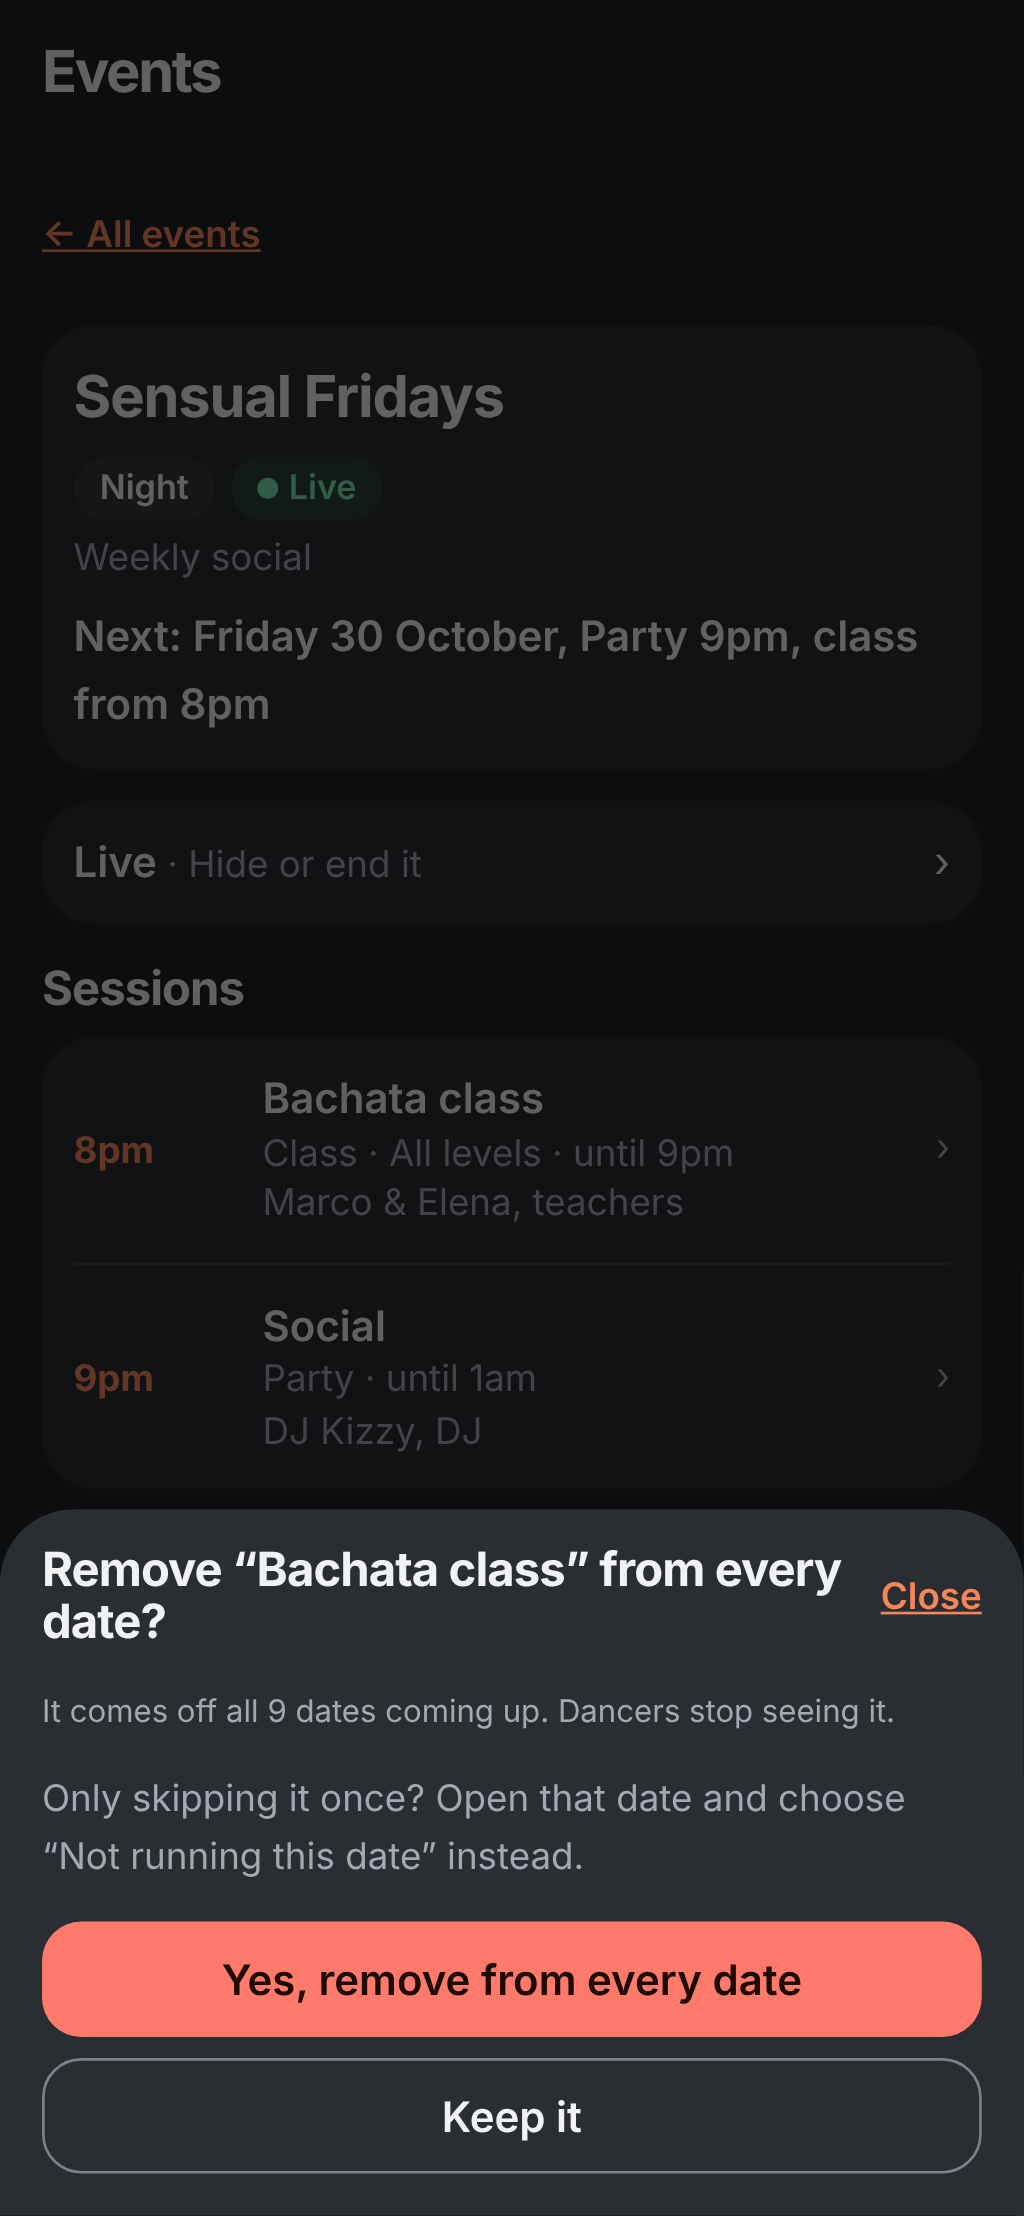
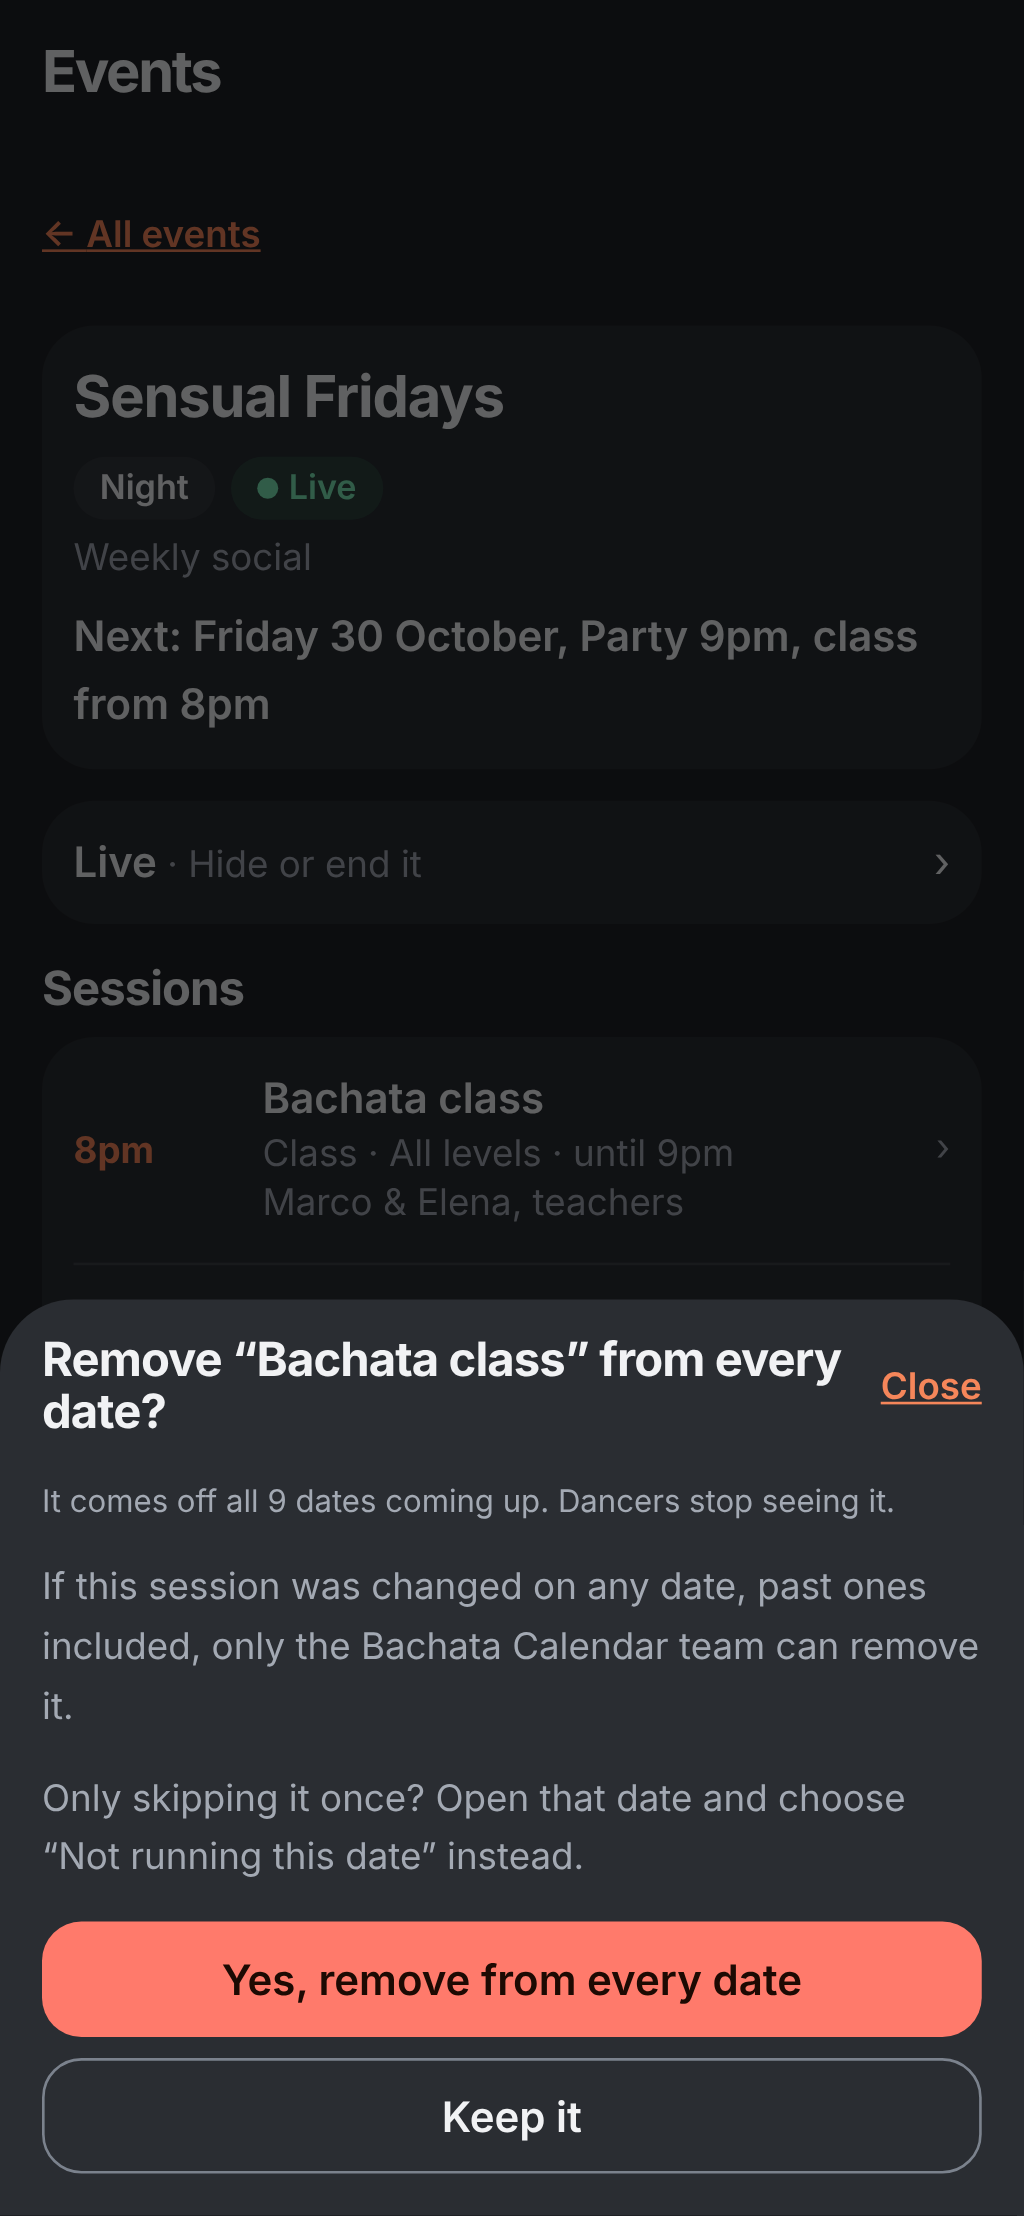
docs(p3): W2d review r1 -- design record table, handover, walk shots 04 and 21-24 [worker-done dt_6b0ecfb1d151]
Review round 1 table in docs/design/1068.md (findings 1-8 fixed, idempotency
handler read on prod), handover updated, the walk refreshed at 390x844 light
and dark: 04-removeall rewritten, 21-24 new (taken-off search row, performance
line-up note, new session needs a name, scope switch clears).

Claude-Session: https://claude.ai/code/session_01WoGkiAhXLeVJpxrwrt4MXg

Changed region(s): [[0.0, 0.5605, 1.0, 0.7784]]

diff --git a/docs/design/1068.md b/docs/design/1068.md
@@ -40,7 +40,26 @@ Flag: `organiserP3` (OFF). Branch `claude/p3-w2d-sessions-lineup`. Brief: `brief
 | workflow-lint / ci-budget | masking, previews, budget self-test | pass |
 | db-contract-check | not run (needs live DB secrets; this PR has no SQL) | n/a |
 
+## Review round 1 (`docs/reviews/1068-r1.md`, fixed on this branch)
+
+Every fix has a test that was run red against the unfixed code first (`sessions.send.test.tsx`, `sessions.data.test.ts`), then green.
+
+| # | Finding | Fixed? | How / why |
+|---|---|---|---|
+| 1 | Typing in "Just this date" lost on a background refetch | Fixed | The edit state is keyed on the STORED version (the date programme's `version`, or `ws.series.version`) and the draft id, not `dataUpdatedAt`. A refetch of the same version keeps the typing; a new version (another save) starts again from what is stored. |
+| 2 | A NEW nameless session saved on Every date, refused on Just this date | Fixed | A NEW session needs a name in both scopes: "Give this session a name." under a disabled "Add this session" (the empty form included). `problemsOf` no longer drops the title problem; a STORED untitled item still passes because `validateTree` checks a name only when it changes (#25). Matrix: new/stored x titled/untitled x scope (10 cases). |
+| 3 | Idempotency key outlives its version | Fixed | Read on prod (SELECT only, 2026-10-27): `apply_aggregate_write_p5` looks a key up in `command_idempotency_p5` by (actor, key) ALONE and replays the stored answer whatever the envelope; it stores a row only on success (a refusal raises and rolls back). So a reused key after a refusal is harmless today, but a key reused at a new version could replay an OLD success (for example, the same tree saved again after a dropped-but-landed write and a change in between). The key is now per (version, command), and dropped after any non-network failure. A pure retry (same envelope after a dropped connection) keeps it (existing test). Tests: a refusal then a tap gives a fresh key; a reload at a new version gives a fresh key and the new `expected_version`. |
+| 4 | Re-adding a taken-off stored person from the search | Fixed | The result row is disabled: "Taken off above. Tap "Keep them on" to put them back." (the button's real label; "Put back" is not on screen). |
+| 5 | Performance line-up: Teacher/DJ toggle with no explanation | Fixed | One line from `whyCannotAddPerson` (its one copy): "Performers and the MC are added by the Bachata Calendar team." |
+| 6 | Remove-from-every-date confirm does not warn up front; "all 0 dates" | Fixed | `CHANGED_SESSION_REMOVE_CONFIRM` shows in the confirm; `removeAllBody(0)` reads "It comes off the programme." |
+| 7 | Switching scope silently drops typing | Fixed (the simpler way) | Switching still starts again from that scope's stored session; once something is typed, a line under the picker says so: "Changing which dates clears what you typed here." |
+| 8 | Series caps refused with "Reload the page" | Fixed | Three anchored COMMAND_COPY rows before the loose set_program rule, texts read on prod (`_owner_program_problem_p5`): 60 sessions, 20 people a session, 300 line-up places, each saying what to take off. Refusal-copy phone spec green (4/4). |
+
+Checks for this round: changed vitest files 120/120 and the organiser suites 1805/1805; full `test:unit:offline` 611/612 files (the same 5 sandbox-only failures in `tests/integrityCouldNotRun.test.ts` as before; nothing here touches tests/scripts/bin); `tsc --noEmit` clean; `npm run lint` 21/22 with `check:integrity` failing only on exit 126 (the script is mode 100644 in git, also on main) and passing when run with `bash` (2662 files, 0 issues); eslint on the changed files clean; `organiser-refusal-copy.phone.spec.ts` 4/4; the W2d walk at 390x844 light + dark 10/10 (0 contrast violations, no tap under 44px, no sideways scroll).
+Screens refreshed: `04-removeall` (light, dark). New: `21-lineup-takenoff`, `22-lineup-performance`, `23-new-session-name`, `24-scope-clears` (light, dark). 03 and 08 changed below the fold only, so they were not rewritten; 23 and 24 show those changes.
+Not verified this round: no write on prod (the cap texts and the idempotency handler were read, not exercised); perf-budget and e2e-smoke not re-run (one label file and two sheets changed inside the lazy P3 chunk); a real phone.
+
 ## Not verified
-- No real write on prod. It is unproven that an owner's `series.set_program` accepts a NEW item with an empty title and no time on prod (the #25 fix lets the client send it).
+- No real write on prod. (Review r1 settled the nameless NEW item: the server would accept it, so the client now requires a name.)
 - `/code-review` rounds (the owner types them; user-facing = two rounds).
 - 360x640; a real phone; the en-GB time picker.

diff --git a/docs/session-handover-2026-10-27-p3-w2d.md b/docs/session-handover-2026-10-27-p3-w2d.md
@@ -10,8 +10,12 @@ Branch `claude/p3-w2d-sessions-lineup`, PR #1068 (bot-opened, body updated). Fla
 ## Open
 - `/code-review` (two rounds, user-facing): not run (owner types it).
 - PR checks on GitHub: not read at hand-off (the final push triggers them).
-- A NEW every-date session with an empty title and no time: client allows it (#25); prod acceptance unproven.
 
 ## Next
 - Owner: run `/code-review` on PR #1068; read the CI checks; keep the flag OFF until W3.
 - After merge: W3 (save model) per ARC-p3; "From X on" (Q1) as a W2d-2 slice after the read-only reader check.
+
+## Review round 1 (2026-10-27, brief `docs/briefs/p3-w2d-review-fixes.md`)
+- Done: findings 1-8 all fixed with red-first tests; table and checks in `docs/design/1068.md` "Review round 1". Idempotency handler read on prod (key looked up by actor+key only, stored on success only).
+- Left: the owner's `/code-review` rounds; PR checks on the final head; real-phone test. Flag stays OFF.
+- Next: owner reviews r1 fixes (round 2 if wanted), then merge; W3 after.
